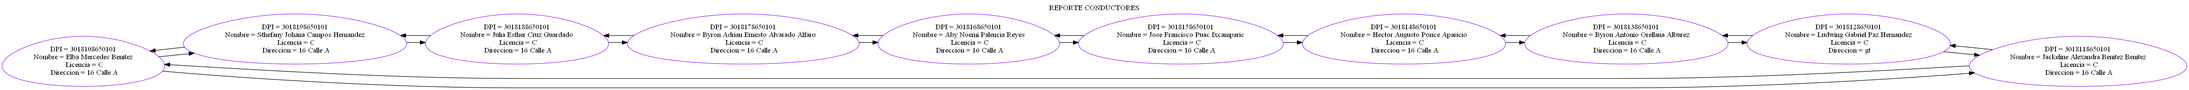
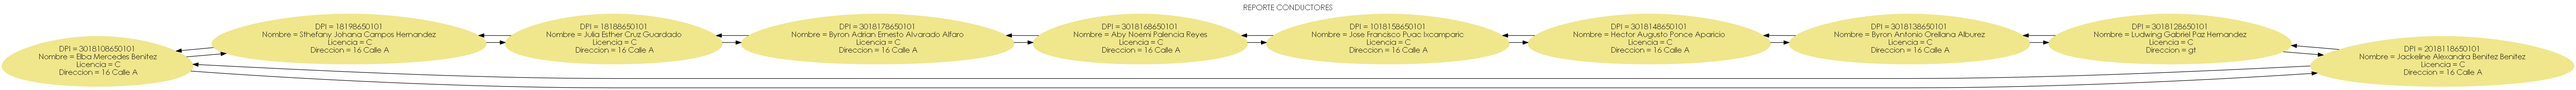
Grafo graficado xd

diff --git a/Proyecto2_201700733_201709166/src/main/java/EDD/Grafo.java b/Proyecto2_201700733_201709166/src/main/java/EDD/Grafo.java
@@ -13,8 +13,8 @@ public class Grafo {
 
     public Vertex raiz;
 
-    public Grafo() {            
-        raiz = null;    
+    public Grafo() {
+        raiz = null;
     }
 
     public void insertarEdge(Vertex lugarOrigen, Vertex lugarDestino, int peso) {
@@ -23,7 +23,7 @@ public class Grafo {
 
         if (aux != null) {                          //Si el auxiliar es diferente de nulo
             while (aux.siguiente != null) {         //vamos a recorrer hasta encontrar el destino de dicho vertice
-                aux = aux.siguiente;                
+                aux = aux.siguiente;
             }
             aux.siguiente = nuevo;                  //cuando lo encuentra lo asigna como nuevo origen
             nuevo.vertice = lugarDestino;           //y al adyacente del nuevo es el destino
@@ -61,7 +61,7 @@ public class Grafo {
     public void Mostrar() {
         Edge auxEdge;
         Vertex auxVertex = raiz;
-        
+
         while (auxVertex != null) {                            //Mientras exista un vertice
             auxEdge = auxVertex.arista;                        //Mi auxiliar Arista es igual a mi adyacente de mi aux vertice
             System.out.print(auxVertex.nombre);                //imprimo el nombte de ese auxiliar vertie     
@@ -69,21 +69,36 @@ public class Grafo {
                 System.out.print("->" + auxEdge.vertice.nombre);//Imprimo el adyacente de dicho auxiliar
                 auxEdge = auxEdge.siguiente;                    //E imprimo los siguientes de dicho adyacente
             }                                                   //Hasta que ya no tenga adyacentes y salgo del while porque seria igual a nulo
-            auxVertex = auxVertex.siguiente;                    //Repito el proceso para mi siguiente vertice
+            auxVertex = auxVertex.siguiente;                    //Repito el proceso para mi siguiente verti
             System.out.println("---------------------------");
         }
     }
 
-    public String report() {
+    public String report() {//se hace lo mismo que en mostrar
         String text = "";
-
+        Edge auxEdge;
+        Vertex auxVertex = raiz;
+        while (auxVertex != null) {                                                                                                 //Mientras exista un vertice
+             text+="\""+auxVertex.nombre+"\""+ "[label = \" "+auxVertex.nombre+"\"]"+"\n";  //inicio el label                                                 //Mi auxiliar Arista es igual a mi adyacente de mi aux vertice
+             
+             System.out.print(auxVertex.nombre); 
+             auxEdge = auxVertex.arista;                                                                                            //imprimo el nombte de ese auxiliar vertie     
+            while (auxEdge != null) {
+                text+="\""+auxVertex.nombre+"\"";  
+                text+="->"+"\""+auxEdge.vertice.nombre+"\""+"[arrowhead=normal label= \""+ auxEdge.tiempo+"\"]\n";                                                                                                //Mientras auxiliar Arista es diferente de nulo 
+                System.out.print("->" + auxEdge.vertice.nombre);                                                                    //Imprimo el adyacente de dicho auxiliar
+                auxEdge = auxEdge.siguiente;                                                                                        //E imprimo los siguientes de dicho adyacente
+            }                                                                                                                       //Hasta que ya no tenga adyacentes y salgo del while porque seria igual a nulo
+            auxVertex = auxVertex.siguiente;                                                                                        //Repito el proceso para mi siguiente verti
+        }
+        
         return text;
     }
 
     public void Graficar() {
         try {
             FileWriter archivo = new FileWriter("ReporteRutas.dot");
-            archivo.write("digraph G {" + "\n rankdir=LR; \n node[shape = egg, color = purple];\n");
+            archivo.write("digraph G {" + "\n rankdir=LR; \n node[shape = egg, style=filled, color = khaki, fontname = \"Century Gothic\"]; graph [fontname = \"Century Gothic\"];\n" );
             archivo.write("labelloc = \"t;\"label = \"REPORTE RUTAS\";\n");
             //CONTENIDO
             archivo.write(report());

diff --git a/Proyecto2_201700733_201709166/src/main/java/EDD/ListaCircularDoble.java b/Proyecto2_201700733_201709166/src/main/java/EDD/ListaCircularDoble.java
@@ -42,7 +42,7 @@ public class ListaCircularDoble {
             primero = nuevo;
         }
         tam++;
-
+       // ordena_lista(nuevo);
     }
 
     public void Buscar(long dato) {
@@ -128,12 +128,36 @@ public class ListaCircularDoble {
         return text;
 
     }
+     NodoLCD actual;
+                NodoLCD anterior;
+                NodoLCD siguiente;
 
-    public void ordena_lista(NodoLCD nodo) {
-        if (tam>1) {
+    public void ordena_lista(ListaCircularDoble nodo) {
+        if(nodo!=null){
+            NodoLCD aux=null;
+            NodoLCD actual=null;
+            long cant=0;
+            aux=nodo.primero;
+            while(aux!=nodo.ultimo){
+            actual=aux.next;
+                while(actual!=null){
+                    if(aux.dato.getDPI()>actual.dato.getDPI()){
+                        cant=aux.dato.getDPI();
+                        aux.dato.getDPI()=actual.dato.getDPI();
+                       cant=actual.dato.getDPI();
+                    }
+                    actual=actual.next;
+                }
+                aux=aux.next;
+            }
+        }else{
+                System.out.println("Lista no iniciliazada");
+        }
+        
+       /* if (tam>1) {
             boolean changes;
             do{
-                NodoLCD actual=primero;
+                 NodoLCD actual=primero;
                 NodoLCD anterior=null;
                 NodoLCD siguiente=primero.next;
                 changes=false;
@@ -167,13 +191,16 @@ public class ListaCircularDoble {
                     
                 }
             }while(changes);
-        }
+        }*/
+       
+       
     }
 
     public void ReporteLCD() {
+       // ordena_lista(primero);
         try {
             FileWriter archivo = new FileWriter("ReporteConductores.dot");
-            archivo.write("digraph G {" + "\n rankdir=LR; \n node[shape = egg, color = purple];\n");
+            archivo.write("digraph G {" + "\n rankdir=LR; \n node[shape = egg, style=filled, color = khaki, fontname = \"Century Gothic\"]; graph [fontname = \"Century Gothic\"];\n" );
             archivo.write("labelloc = \"t;\"label = \"REPORTE CONDUCTORES\";\n");
             //CONTENIDO
             archivo.write(report());

diff --git a/Proyecto2_201700733_201709166/src/main/java/Interfaz/ConductoresInterfaz.java b/Proyecto2_201700733_201709166/src/main/java/Interfaz/ConductoresInterfaz.java
@@ -233,6 +233,8 @@ public class ConductoresInterfaz extends javax.swing.JFrame {
         TxtTelefono.setText("");
         TxtDireccion.setText("");
         JOptionPane.showMessageDialog(null, "Usuario Agregado identificado con " + TxtDpi.getText());
+        
+        lcd.ordena_lista(lcd);
 
     }//GEN-LAST:event_BtnAgregarActionPerformed
 

diff --git a/Proyecto2_201700733_201709166/src/main/java/EDD/Vertex.java b/Proyecto2_201700733_201709166/src/main/java/EDD/Vertex.java
@@ -10,7 +10,7 @@ package EDD;
  * @author Jacky
  */
 public class Vertex {
-     Vertex siguiente;          
+      Vertex siguiente;          
      Edge arista;               
      String nombre;
     
@@ -20,5 +20,4 @@ public class Vertex {
     this.arista=arista;
     this.nombre=nombre;
     }
-          
 }

diff --git a/Proyecto2_201700733_201709166/src/main/java/Interfaz/FirstStep.java b/Proyecto2_201700733_201709166/src/main/java/Interfaz/FirstStep.java
@@ -132,7 +132,7 @@ public class FirstStep extends javax.swing.JFrame {
 
         JOptionPane.showMessageDialog(null, "Carga masiva completada!");
         graph.Mostrar();
-
+        graph.Graficar();
         MenuP principal = new MenuP();
         principal.setVisible(true);
         this.dispose();

diff --git a/Proyecto2_201700733_201709166/src/main/java/EDD/Edge.java b/Proyecto2_201700733_201709166/src/main/java/EDD/Edge.java
@@ -10,7 +10,7 @@ package EDD;
  * @author Jacky
  */
 public class Edge {
-    public Edge siguiente;
+     public Edge siguiente;
     public Vertex vertice;
     public int tiempo;
     
@@ -20,5 +20,4 @@ public class Edge {
         this.tiempo=peso;
                
     }
-            
 }

diff --git a/Proyecto2_201700733_201709166/src/main/java/EDD/ListaAdyacencia.java b/Proyecto2_201700733_201709166/src/main/java/EDD/ListaAdyacencia.java
@@ -129,6 +129,7 @@ public class ListaAdyacencia {
             aux.setSiguiente(nuevo);
             nuevo.setSiguiente(sig);
             tam++;
+           
         }
     }
     
